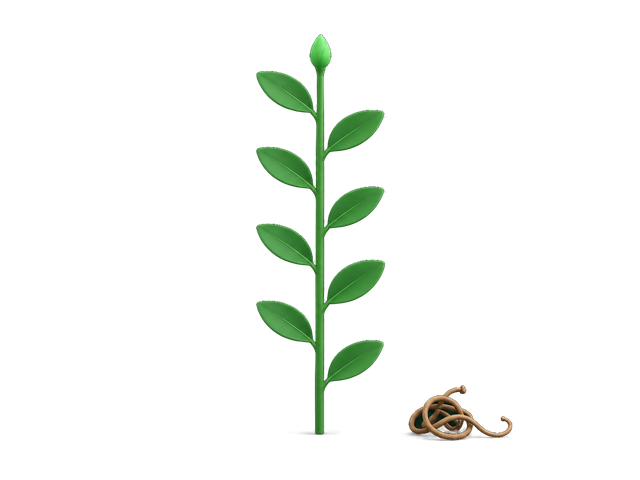
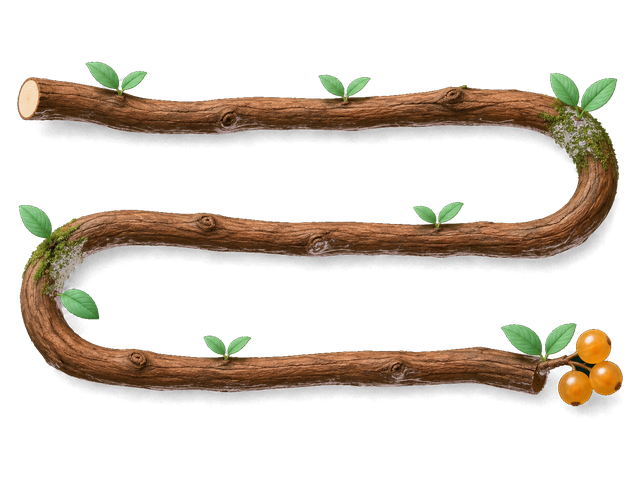
Direct style redrawn as one unbroken serpentine vine; scenes fitted around the subject

diff --git a/scripts/art/finish.py b/scripts/art/finish.py
@@ -7,8 +7,8 @@ hero, icon-<id>, divider, codebar, og, favicons. Raw renders are read from scrip
 SourceSans3[wght].ttf in scripts/art/fonts/ (git-ignored; both are on github.com/google/fonts).
 
 Every render sits on the solid ground the prompt asks for; `key()` turns that ground into
-transparency. Scenes are centre-cropped to their aspect and resized with Lanczos to twice their CSS
-size. Wide strips (divider, code-bar mark) are cropped around what survived the keying.
+transparency. Every asset is then fitted around what survived the keying, padded to its aspect and
+resized with Lanczos to twice its CSS size.
 """
 import base64
 import io
@@ -81,16 +81,6 @@ def key(im, t0=4, t1=48):
     return Image.fromarray(out, "RGBA")
 
 
-def crop_aspect(im, w, h):
-    """Largest centred crop of aspect w:h."""
-    W, H = im.size
-    if W * h > H * w:
-        cw = H * w // h
-        return im.crop(((W - cw) // 2, 0, (W - cw) // 2 + cw, H))
-    ch = W * h // w
-    return im.crop((0, (H - ch) // 2, W, (H - ch) // 2 + ch))
-
-
 def subject_box(im):
     """Bounding box of everything that survived the keying."""
     return im.getchannel("A").point(lambda v: 255 if v > 8 else 0).getbbox()
@@ -120,7 +110,9 @@ def save(im, name):
 
 
 def benefit(name):
-    save(crop_aspect(load(name), 4, 3).resize((640, 480), Image.LANCZOS), f"art/{name}.png")
+    # Fitted around the subject, not centre-cropped: a scene that spans the render would lose its
+    # ends to the crop, and the transparent padding costs nothing.
+    save(strip(load(name), 640, 480, 40), f"art/{name}.png")
 
 
 def hero():

diff --git a/scripts/art/prompts/benefit-direct-style.md b/scripts/art/prompts/benefit-direct-style.md
@@ -1,1 +1,1 @@
-SUBJECT (4:3 landscape scene): A single upright plant stem, pencil-thick and perfectly straight, smooth matte leaf green, centred and filling two-thirds of the height, rising directly from a plain dark ground with no roots or pot. Seven identical rounded oval leaves in leaf green grow from it, alternating left and right, evenly spaced like rungs, all the same size and angled the same way. At the tip, one small closed bright mint bud pointing straight up. On the ground to the right of the base lies a small loose knot of thin, dry, twisted tendril in warm wood brown, coiled over itself like discarded string, about a quarter of the stem's height and clearly separate from it. Soft studio lighting from the upper left, gentle contact shadows under stem and knot. Plain solid deep forest green #0f2418 background, nothing else in frame.
+SUBJECT (4:3 landscape scene, rendered in rich detail like a product shot of a real object: bark grain, moss texture, leaf veins): A single thick woody vine, as fat as a wrist, laid out as a serpentine in three horizontal rows, like lines of text. It starts at the top left as a clean cut woody stub, runs right, makes a smooth U-bend at the right margin, runs left along the middle row, U-bends at the left margin, and runs right along the bottom row, ending in a plump cluster of three amber berries at the bottom right. One continuous strand, never forking, never crossing itself, rows evenly spaced with clear dark gaps between them; the coil fills about 85% of the frame. Bark is warm chestnut brown with fine longitudinal grain; a few small moss cushions sit only in the two bends. Sparse leaf pairs, all one identical bright mint green with visible veins, sprout mainly near the bends, never hiding the strand. Soft studio key light from the upper left, gentle specular on the berries, faint contact shadow under the bottom row. Plain solid deep forest green #0f2418 background, no floor, no scenery.

diff --git a/docs/art-direction.md b/docs/art-direction.md
@@ -37,9 +37,8 @@ animals or mascots.
 
 Everything lives in `scripts/art/`: `theme.md` is the block every prompt starts with, `prompts/<asset>.md`
 the subject of each image, `gen.sh <asset> <WxH>` one render through the Codex CLI's image tool into
-the git-ignored `gen/`, and `finish.py <asset>...` the step from a raw render to `public/`: centre-crop
-to the target aspect, Lanczos-resize to 2x; the divider and code bar are first cropped around the
-subject's bounding box after keying. `og` composes the hero render with the title in Montserrat
+the git-ignored `gen/`, and `finish.py <asset>...` the step from a raw render to `public/`: key out the
+ground, fit the result to the target aspect and Lanczos-resize it to 2x. subject's bounding box after keying. `og` composes the hero render with the title in Montserrat
 and `favicons` cuts the slab mark of the hero onto a `#07160f` tile (both need the two variable fonts
 in `fonts/`, see the script). Renders come out at 1024 or 1536 on the long side.
 
